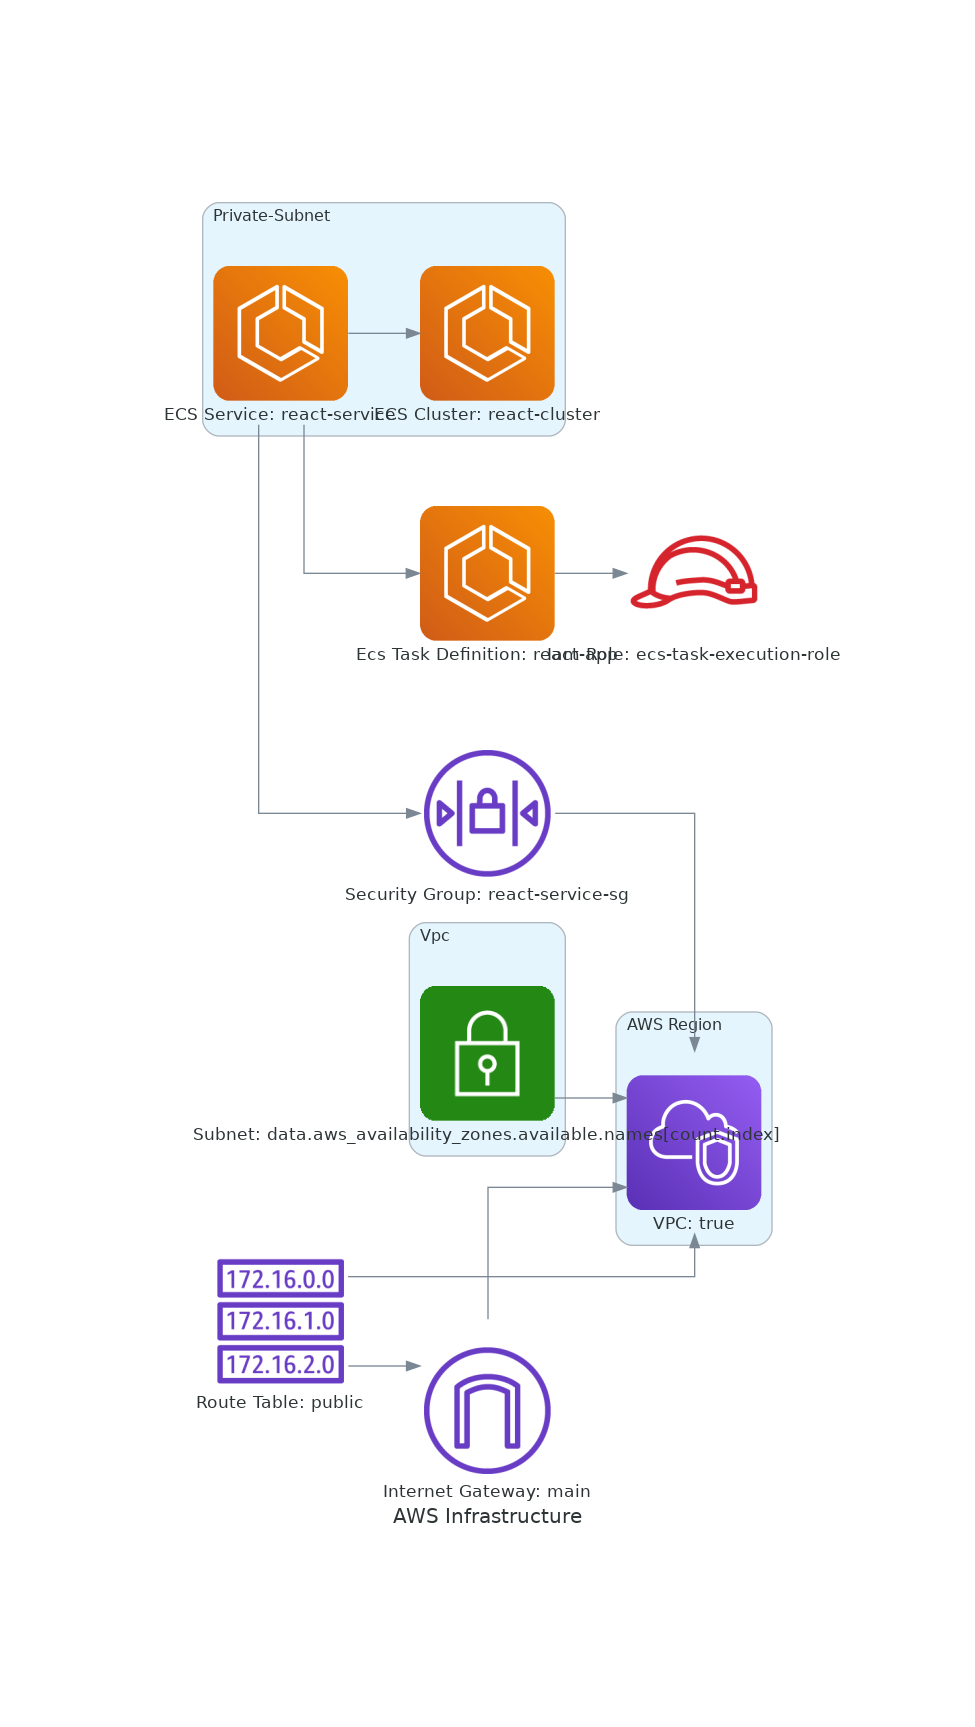
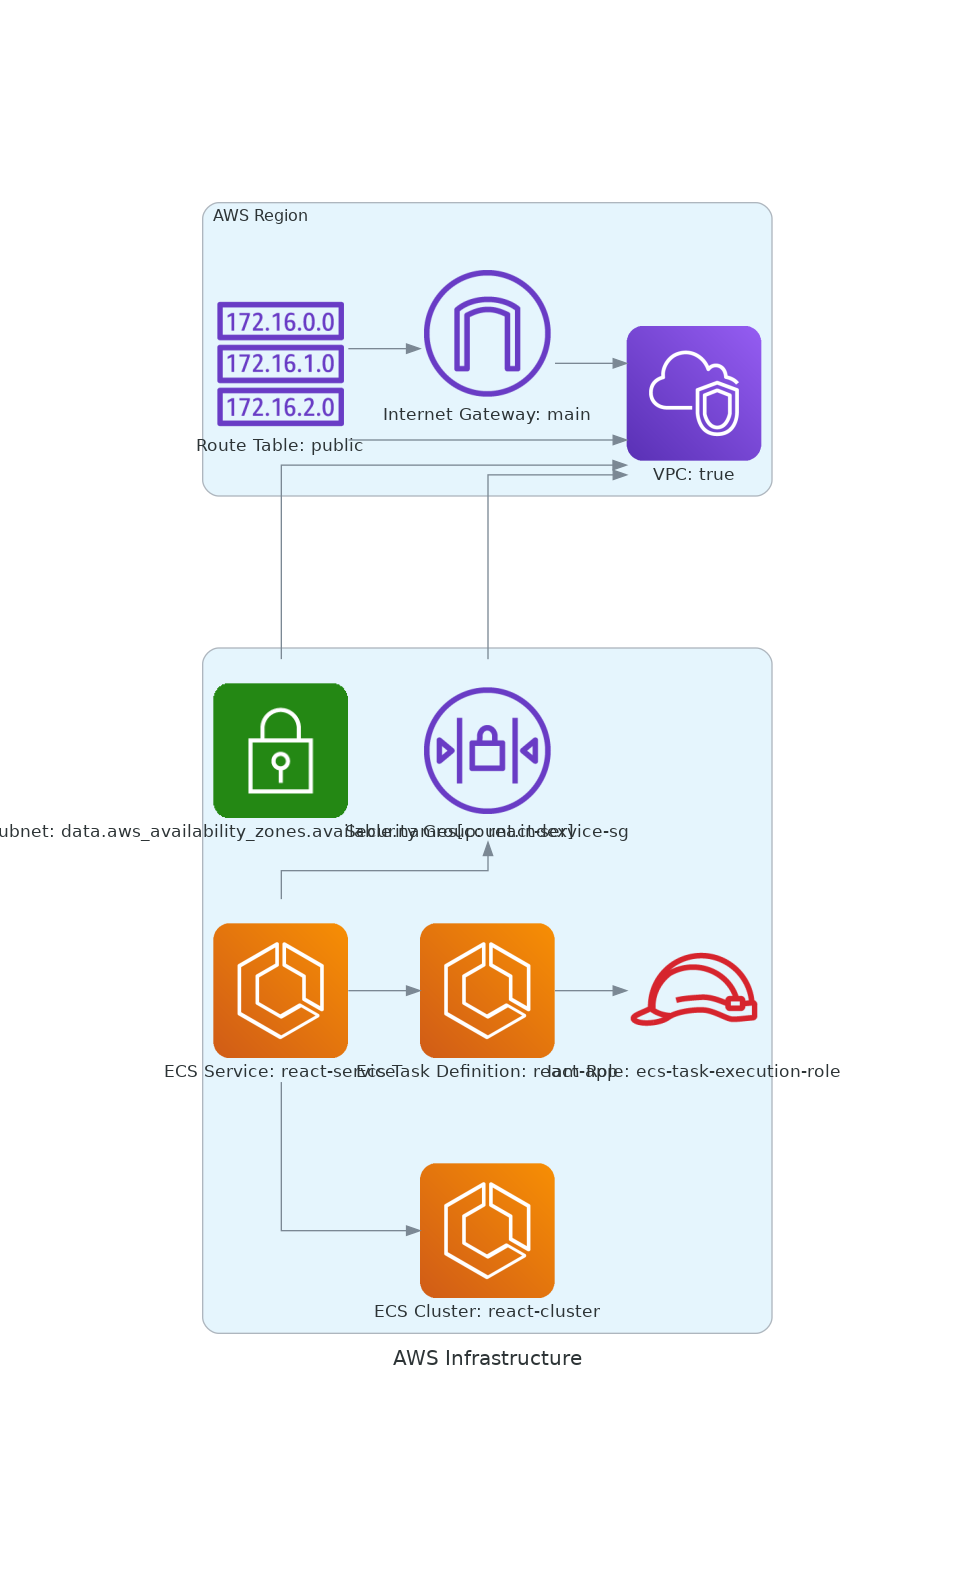
FIX render child nodes with indirect relationships to parents should also be rendered within cluster

diff --git a/diagram_generator.py b/diagram_generator.py
@@ -81,30 +81,77 @@ class DiagramGenerator:
             self._cluster_map[cluster_id] = Cluster(label)
         return self._cluster_map[cluster_id]
 
+    def _get_cluster_nodes(self) -> Dict[str, set[str]]:
+        """Get all nodes that should be in each cluster, including indirectly related nodes."""
+        # Initialize with direct parent relationships
+        cluster_nodes: Dict[str, set[str]] = {}
+        for node in self.yaml_nodes:
+            if parent := node.get("parent"):
+                if parent not in cluster_nodes:
+                    cluster_nodes[parent] = set()
+                cluster_nodes[parent].add(node["id"])
+
+        # Build adjacency list from edges
+        adjacency: Dict[str, set[str]] = {}
+        for edge in self.yaml_edges:
+            source = edge["source"]
+            target = edge["target"]
+            if source not in adjacency:
+                adjacency[source] = set()
+            if target not in adjacency:
+                adjacency[target] = set()
+            adjacency[source].add(target)
+            adjacency[target].add(source)  # Bidirectional for cluster membership
+
+        # For each cluster, add nodes that are connected to its members
+        changed = True
+        while changed:
+            changed = False
+            for cluster_id, members in cluster_nodes.items():
+                new_members = set()
+                for member in members:
+                    if member in adjacency:
+                        for connected in adjacency[member]:
+                            if connected not in members and not any(
+                                connected in other_members 
+                                for other_id, other_members in cluster_nodes.items() 
+                                if other_id != cluster_id
+                            ):
+                                new_members.add(connected)
+                if new_members:
+                    changed = True
+                    members.update(new_members)
+
+        return cluster_nodes
+
     def _create_nodes(self):
         """Create diagram nodes from YAML description."""
-        # First pass: create clusters
+        # First pass: create clusters and determine cluster membership
+        cluster_nodes = self._get_cluster_nodes()
+        
+        # Create clusters first
         for node in self.yaml_nodes:
-            if node.get("parent"):
-                parent_id = node["parent"]
-                parent_label = next(
-                    (n["label"] for n in self.yaml_nodes if n["id"] == parent_id),
-                    parent_id.title()
-                )
-                self._get_or_create_cluster(parent_id, parent_label)
+            node_id = node["id"]
+            if node_id in cluster_nodes:
+                label = node.get("label", node_id.title())
+                self._get_or_create_cluster(node_id, label)
 
-        # Second pass: create nodes
+        # Second pass: create nodes in their clusters
         for node in self.yaml_nodes:
             node_id = node["id"]
             if node_id in self._node_map:
                 continue
 
-            # Skip if this is a cluster
-            if any(n.get("parent") == node_id for n in self.yaml_nodes):
+            # Skip if this is a cluster itself
+            if node_id in cluster_nodes:
                 continue
 
             label = node.get("label", node_id)
-            parent_id = node.get("parent")
+            node_cluster = next(
+                (cluster_id for cluster_id, members in cluster_nodes.items() 
+                 if node_id in members),
+                None
+            )
 
             # Get node class based on resource type
             resource_type = node_id.split("-")[0]
@@ -114,8 +161,8 @@ class DiagramGenerator:
                 continue
 
             # Create node in appropriate context
-            if parent_id:
-                with self._get_or_create_cluster(parent_id, ""):
+            if node_cluster:
+                with self._get_or_create_cluster(node_cluster, ""):
                     self._node_map[node_id] = node_class(label)
             else:
                 self._node_map[node_id] = node_class(label)
